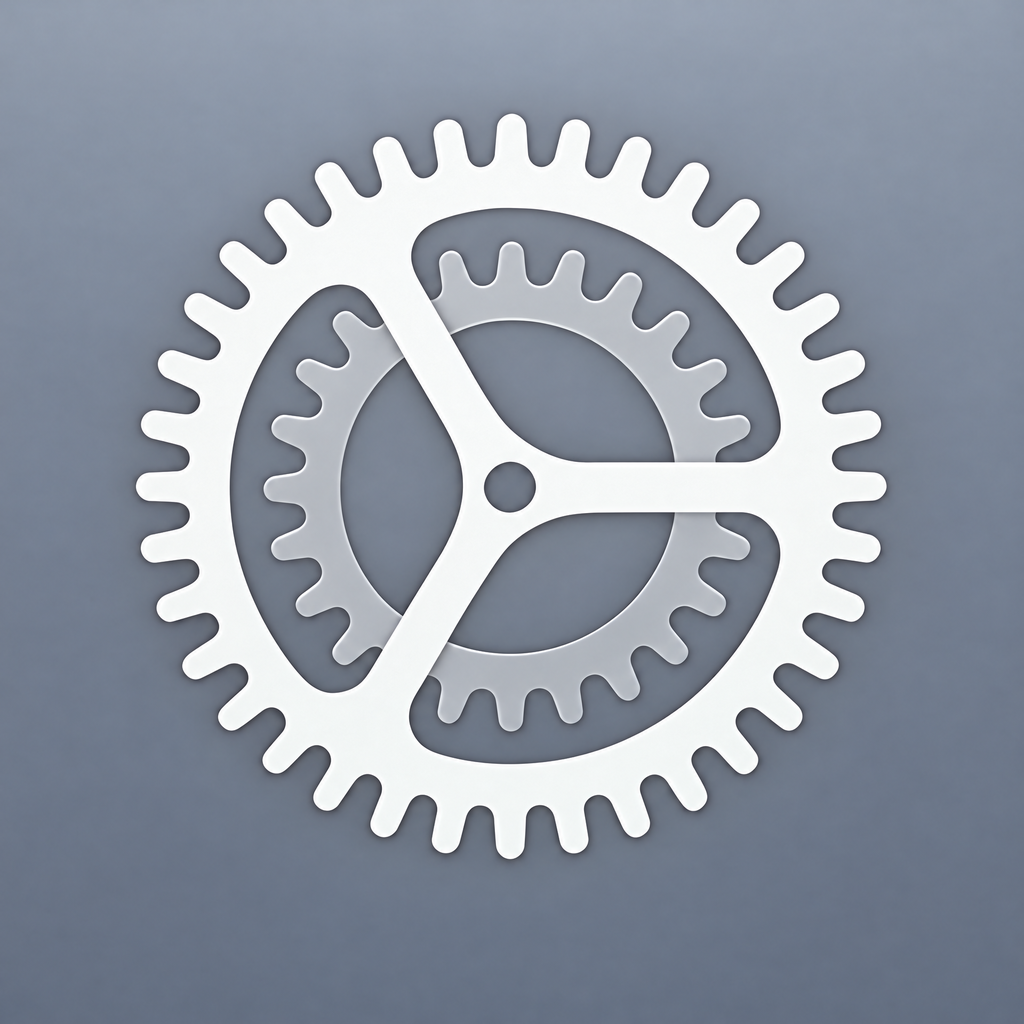
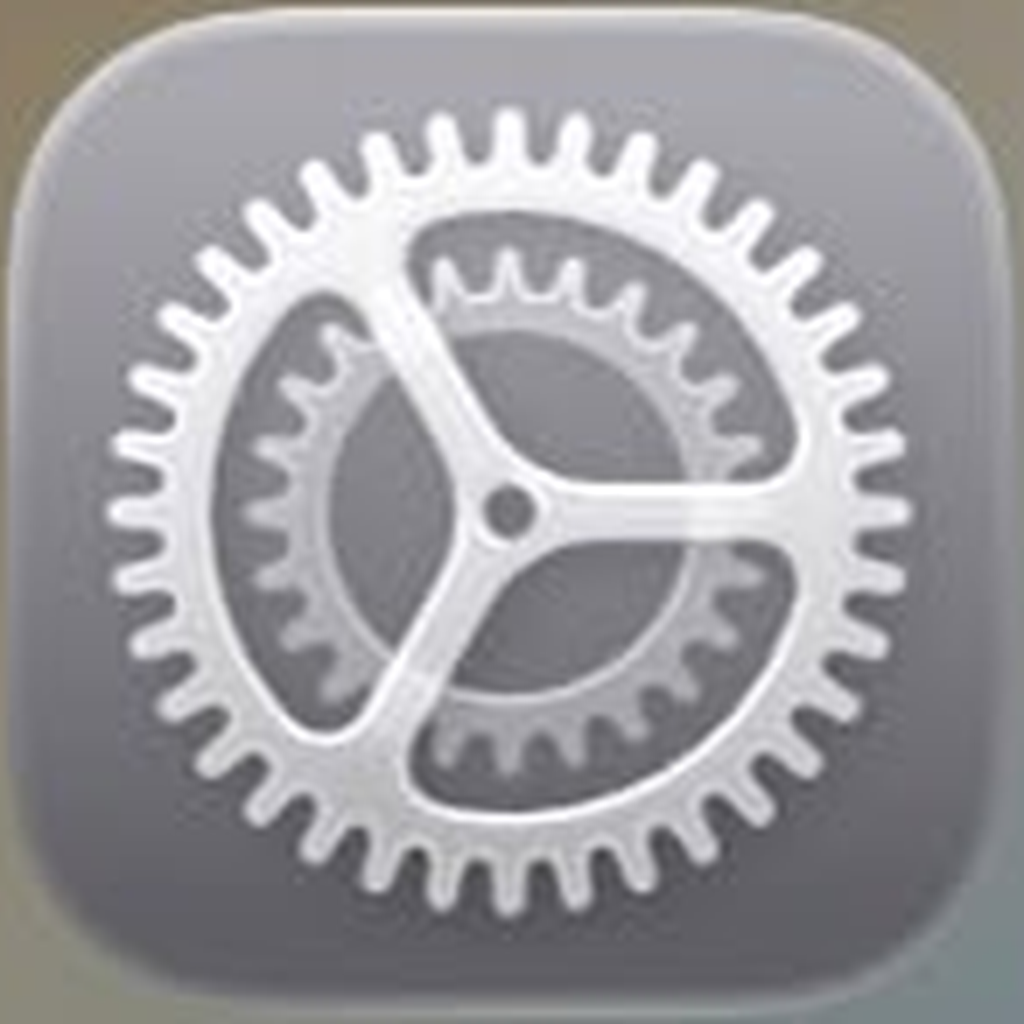
Pakai file ikon asli pengguna tanpa recolor pada versi 1.2.1

diff --git a/scripts/decode-ios-png.py b/scripts/decode-ios-png.py
@@ -1,0 +1,66 @@
+"""Decode a standard or Apple CgBI PNG, preserving its original pixel artwork."""
+import io
+import struct
+import zlib
+from pathlib import Path
+import argparse
+from PIL import Image
+
+
+def decode(data):
+    chunks = []
+    offset = 8
+    while offset < len(data):
+        length = struct.unpack(">I", data[offset:offset + 4])[0]
+        chunks.append((data[offset + 4:offset + 8], data[offset + 8:offset + 8 + length]))
+        offset += length + 12
+    if not any(kind == b"CgBI" for kind, _ in chunks):
+        image = Image.open(io.BytesIO(data))
+        image.load()
+        return image
+    header = next(value for kind, value in chunks if kind == b"IHDR")
+    width, height, depth, color, _, _, interlace = struct.unpack(">IIBBBBB", header)
+    if depth != 8 or color not in (2, 6) or interlace != 0:
+        raise ValueError("Unsupported CgBI pixel layout")
+    bpp = 4 if color == 6 else 3
+    stride = width * bpp
+    raw = zlib.decompress(b"".join(value for kind, value in chunks if kind == b"IDAT"), -15)
+    previous = bytearray(stride)
+    pixels = bytearray()
+    offset = 0
+    def paeth(a, b, c):
+        value = a + b - c
+        da, db, dc = abs(value - a), abs(value - b), abs(value - c)
+        return a if da <= db and da <= dc else b if db <= dc else c
+    for _ in range(height):
+        filter_type = raw[offset]
+        offset += 1
+        row = bytearray(raw[offset:offset + stride])
+        offset += stride
+        for i in range(stride):
+            left = row[i - bpp] if i >= bpp else 0
+            up = previous[i]
+            upper_left = previous[i - bpp] if i >= bpp else 0
+            if filter_type == 0: predictor = 0
+            elif filter_type == 1: predictor = left
+            elif filter_type == 2: predictor = up
+            elif filter_type == 3: predictor = (left + up) // 2
+            elif filter_type == 4: predictor = paeth(left, up, upper_left)
+            else: raise ValueError("Invalid PNG filter")
+            row[i] = (row[i] + predictor) & 255
+        pixels.extend(row)
+        previous = row
+    for i in range(0, len(pixels), bpp):
+        pixels[i], pixels[i + 2] = pixels[i + 2], pixels[i]
+        if bpp == 4 and 0 < pixels[i + 3] < 255:
+            for channel in range(3):
+                pixels[i + channel] = min(255, round(pixels[i + channel] * 255 / pixels[i + 3]))
+    return Image.frombytes("RGBA" if bpp == 4 else "RGB", (width, height), bytes(pixels))
+
+
+if __name__ == "__main__":
+    parser = argparse.ArgumentParser()
+    parser.add_argument("input", type=Path)
+    parser.add_argument("output", type=Path)
+    args = parser.parse_args()
+    decode(args.input.read_bytes()).save(args.output)

diff --git a/mobile/make_icons.py b/mobile/make_icons.py
@@ -1,7 +1,6 @@
-"""Sync existing icon assets without redrawing or replacing their designs.
-Run from any working directory: python3 mobile/make_icons.py
-"""
+"""Synchronize native icon sizes without drawing, recoloring, or enhancing icons."""
 from pathlib import Path
+import shutil
 from PIL import Image
 
 ROOT = Path(__file__).resolve().parent.parent
@@ -10,16 +9,24 @@ ROOT = Path(__file__).resolve().parent.parent
 def sync_icons():
     for app in ("phone", "settings"):
         resource = ROOT / "mobile" / app / "resources" / "icon.png"
-        icon = Image.open(resource).convert("RGB")
-        if icon.size != (1024, 1024):
-            raise ValueError(f"{resource} must be a prepared 1024x1024 icon")
-        native = ROOT / "mobile" / app / "ios" / "App" / "App" / "Assets.xcassets" / "AppIcon.appiconset" / "AppIcon-512@2x.png"
-        icon.save(native, format="PNG")
-        web = ROOT / "frontend" / "public" / "icons" / f"{app}.png"
+        exact = resource.with_name("icon-source-exact.png")
+        web = ROOT / "frontend/public/icons" / f"{app}.png"
         web.parent.mkdir(parents=True, exist_ok=True)
-        icon.resize((256, 256), Image.Resampling.LANCZOS).save(web, format="PNG")
-        print(f"Synchronized {app}: native icon + web icon")
-    print("Splash artwork is retained; this script does not regenerate it.")
+        if app == "settings" and exact.is_file():
+            original = Image.open(exact).convert("RGB")
+            # iOS requires 1024x1024. This is size conversion only, not restoration.
+            icon = original.resize((1024, 1024), Image.Resampling.LANCZOS)
+            icon.save(resource, format="PNG")
+            shutil.copyfile(exact, web)
+        else:
+            icon = Image.open(resource).convert("RGB")
+            if icon.size != (1024, 1024):
+                raise ValueError(f"{resource} must be a prepared 1024x1024 icon")
+            icon.resize((256, 256), Image.Resampling.LANCZOS).save(web, format="PNG")
+        native = ROOT / "mobile" / app / "ios/App/App/Assets.xcassets/AppIcon.appiconset/AppIcon-512@2x.png"
+        icon.save(native, format="PNG")
+        print(f"Synchronized {app}: native + source-preserving web icon")
+    print("No shapes, colors, or splash artwork are regenerated.")
 
 
 if __name__ == "__main__":

diff --git a/TODO.md b/TODO.md
@@ -39,3 +39,8 @@ Aplikasi tetap simulasi, bukan pengganti Pengaturan/Phone sistem iOS. Kontrol lo
 - [x] Display & Brightness benar-benar mengganti Light/Dark pada UI Settings dan halaman turunannya, bukan hanya menyimpan teks pilihan. Pilihan tersimpan per akun, Automatic tetap didukung, teks/secondary label/divider/input/toggle/dialog/Search/Account/About tetap terbaca; QR dan barcode tetap dapat dipindai. Pergantian bolak-balik serta reload tidak merusak navigasi atau data.
 - [x] Native Settings menyelaraskan style status bar, window/WebView background dan appearance saat tema berubah. Light tetap terang seperti yang sudah diterima; Dark memakai teks status terang dan background gelap. Tidak mengklaim mengubah tema iOS sistem atau membuktikan keyboard/Dynamic Island fisik tanpa pengujian iPhone.
 - [x] Backend tetap https://24simulator.vip; Phone dan hasil *#06# tanpa serial dipertahankan. Bundel cocok dengan source/versi, uji Light/Dark lulus, source disimpan di GitHub dan IPA unsigned terbaru beserta screenshot yang benar-benar berasal dari bundle diserahkan. Pengujian tidak menulis ke produksi.
+
+## Ikon app dari file asli pengguna
+
+- [ ] Ikon app Settings wajib memakai file `Settings-acuan-asli-crop.png` yang dikirim pengguna langsung, tanpa menggambar ulang, recolor, sharpen, atau penggantian simbol. File asli 146x146 disimpan byte-identik di resource sumber dan ikon web. Hanya aset native yang di-resize ke ukuran wajib iOS 1024x1024; perubahan ukuran/render iOS tidak diklaim sebagai kesamaan byte dengan file 146x146.
+- [ ] Aset native aktif yang dirujuk AppIcon Contents.json diganti, generator mempertahankan sumber asli, kedua bundle shared dibuild agar fingerprint cocok, dan IPA baru diperiksa berdasarkan sumber/versi/checksum. General, fitur Light/Dark, backend, Phone, dan menu yang sudah lulus tidak diubah. Bukti ekstraksi ikon dari IPA disertakan; tidak mengklaim screenshot iPhone fisik.

diff --git a/mobile/ICON_SOURCE_1.2.1.md b/mobile/ICON_SOURCE_1.2.1.md
@@ -1,0 +1,5 @@
+# Ikon sumber asli — 1.2.1 (5)
+
[1 lines of base64/hex data omitted]
+
+General, UI Light/Dark, backend dan fitur Phone tidak diubah. Kedua bundle shared dibuild ulang agar fingerprint source cocok. Hasil native baru akan diperiksa terhadap file sumber setelah unduhan.
